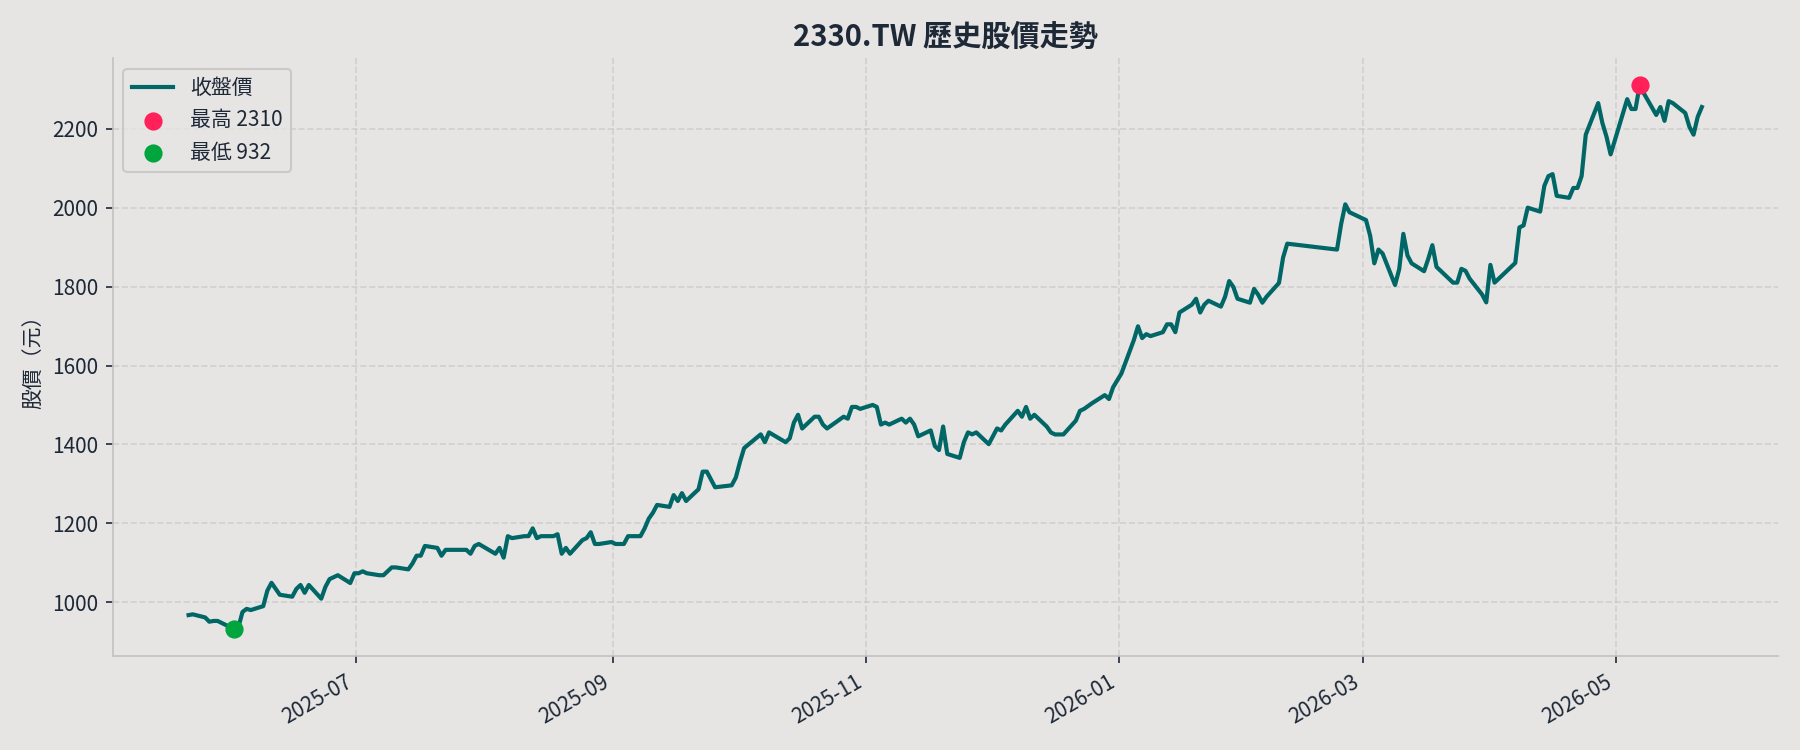
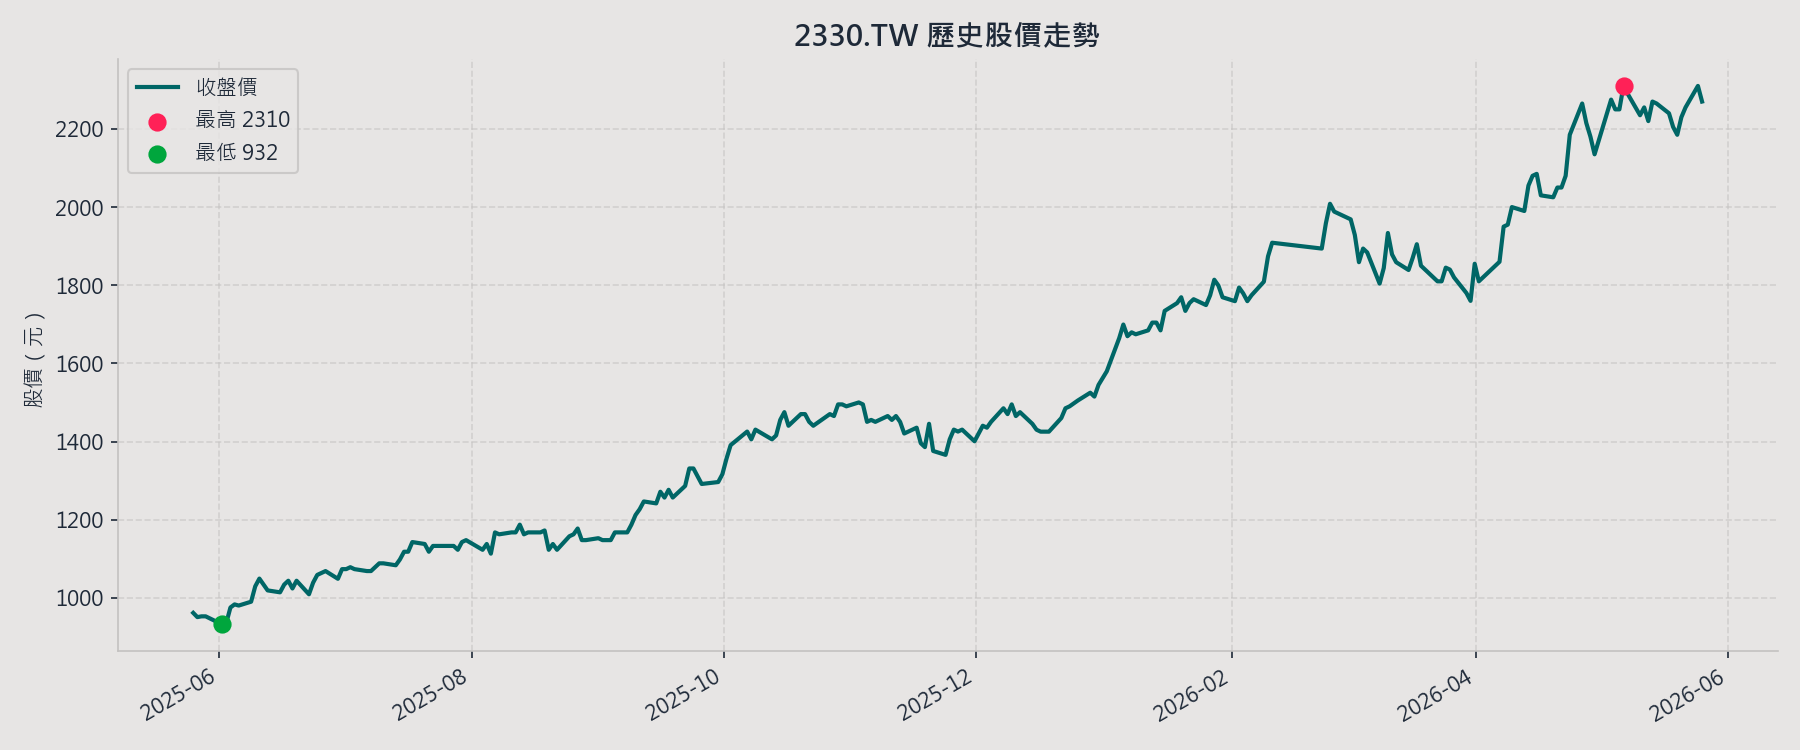
feat: 配置環境變數，改用更通用的 Openai 套件

diff --git a/app.py b/app.py
@@ -8,7 +8,8 @@ import os
 import pandas as pd
 from flask import Flask, jsonify, request, render_template
 
-import google.generativeai as genai
+from openai import OpenAI
+import config
 
 from analysis.fetcher import (
     get_stock_info,
@@ -22,8 +23,11 @@ from analysis.plotter import (
     plot_pe_river_chart,
 )
 
-genai.configure(api_key="請替換")
-ai_model = genai.GenerativeModel('gemini-3.5-flash')
+# 初始化 OpenAI / OpenRouter 客戶端
+client = OpenAI(
+    api_key=config.OPENAI_API_KEY,
+    base_url=config.OPENAI_API_BASE
+)
 
 app = Flask(__name__)
 
@@ -242,9 +246,16 @@ def api_analyze_news(symbol):
             新聞標題：{title}
             """
             try:
-                # 呼叫剛才沙坑測試成功的 AI 模型
-                response = ai_model.generate_content(prompt)
-                ai_result = response.text.strip()
+                # 呼叫 OpenAI / OpenRouter 相容的 API 模型
+                response = client.chat.completions.create(
+                    model=config.LLM_MODEL,
+                    messages=[
+                        {"role": "user", "content": prompt}
+                    ],
+                    max_tokens=10,
+                    temperature=0.0
+                )
+                ai_result = response.choices[0].message.content.strip()
                 
                 # 將 AI 的中文回答對應到前端需要的 CSS 顏色樣式 (type)
                 if "正向" in ai_result:

diff --git a/config.py b/config.py
@@ -1,0 +1,14 @@
+import os
+from dotenv import load_dotenv
+
+# 載入當前目錄下的 .env 檔案
+load_dotenv()
+
+# API 設定
+OPENAI_API_KEY = os.getenv("OPENAI_API_KEY", "")
+# 預設為 OpenAI 官方 API 網址，之後可於 .env 中覆寫為 OpenRouter 網址
+OPENAI_API_BASE = os.getenv("OPENAI_API_BASE", "https://api.openai.com/v1")
+LLM_MODEL = os.getenv("LLM_MODEL", "gpt-4o-mini")
+
+if not OPENAI_API_KEY:
+    print("⚠️ 警告：未設定 OPENAI_API_KEY 環境變數。請在專案根目錄的 .env 檔案中填入您的 API 金鑰。")

diff --git a/README.md b/README.md
@@ -74,6 +74,17 @@ business_final_project/
    pip install -r requirements.txt
    ```
 
+4. **設定環境變數 (.env)**
+   專案使用 `.env` 來管理 LLM 模型的 API 設定。請複製範例設定檔，並填入您的 API 金鑰與設定：
+     ```bash
+     cp .env.example .env
+     ```
+   
+   複製後，打開 `.env` 進行編輯：
+   - `OPENAI_API_KEY`: 填入您的 OpenAI API 金鑰或 OpenRouter API 金鑰等。
+   - `OPENAI_API_BASE`: 若使用 OpenRouter，請填寫 `https://openrouter.ai/api/v1`；若為官方 OpenAI，請填寫 `https://api.openai.com/v1`。
+   - `LLM_MODEL`: 您要呼叫的模型名稱。例如 `gpt-4o-mini`，或 OpenRouter 上的免費模型如 `nvidia/nemotron-3-super-120b-a12b:free`。
+
 ## 執行程式
 
 啟動 Flask 網頁伺服器：